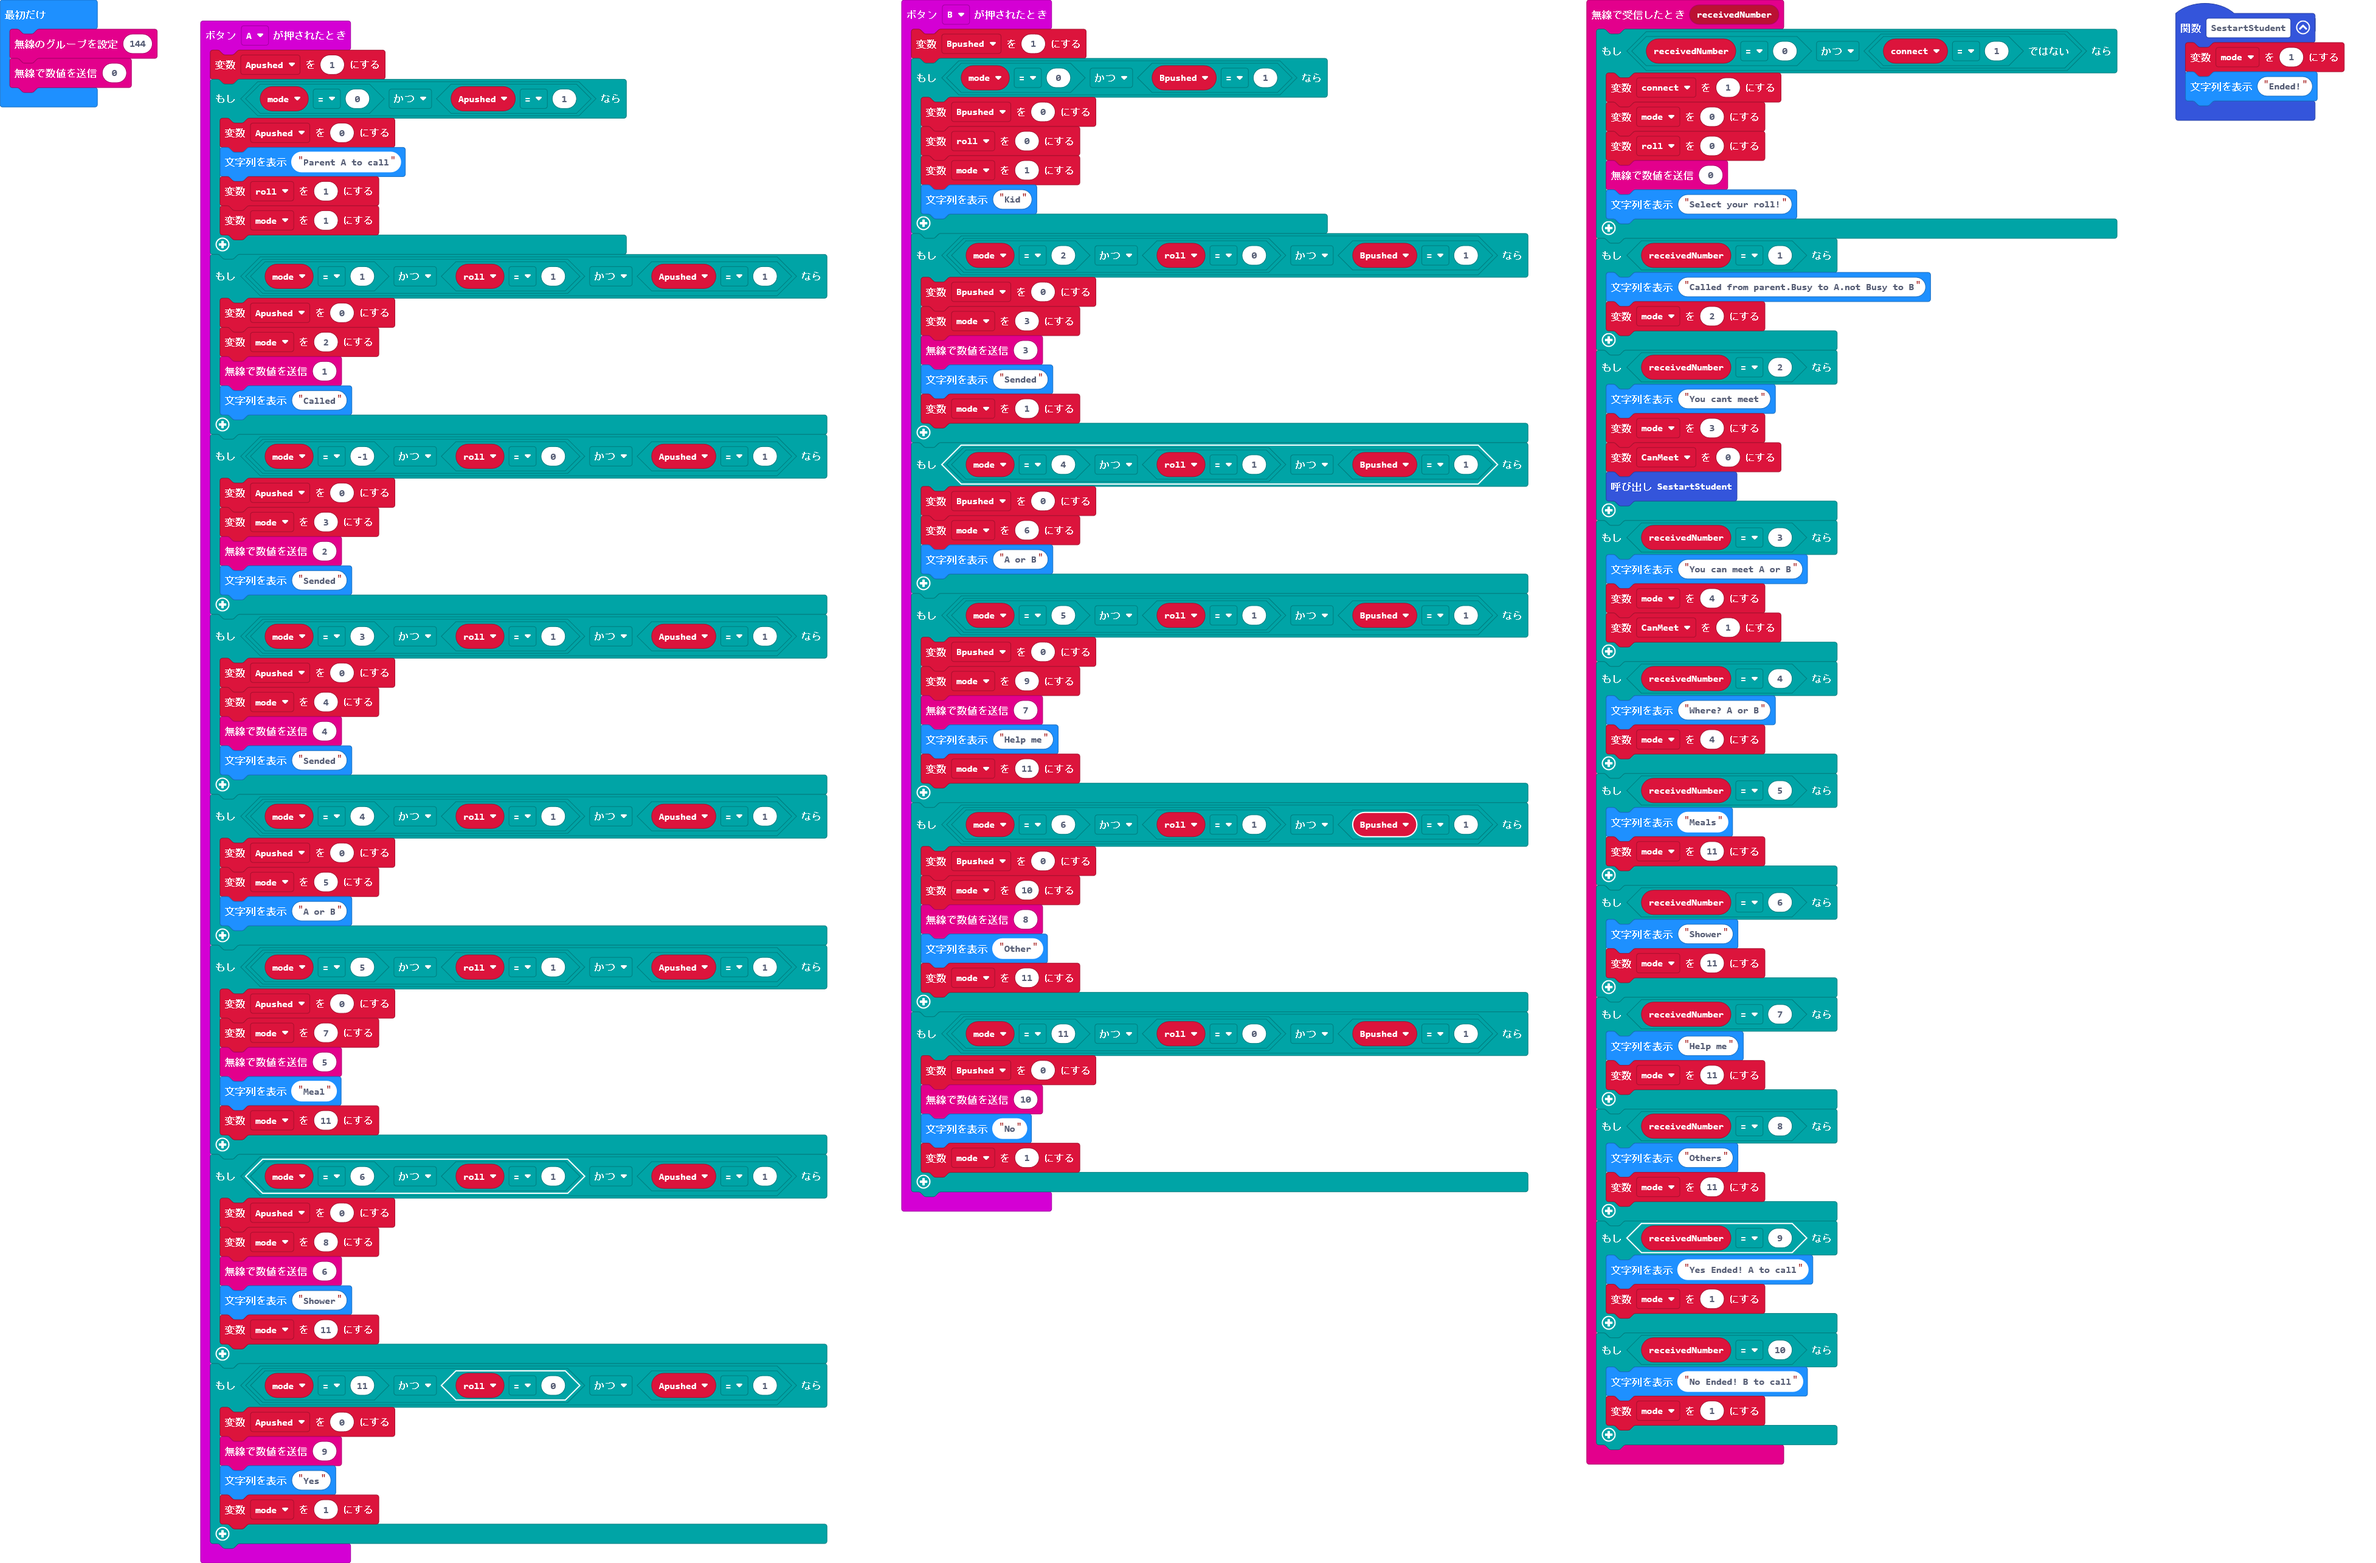
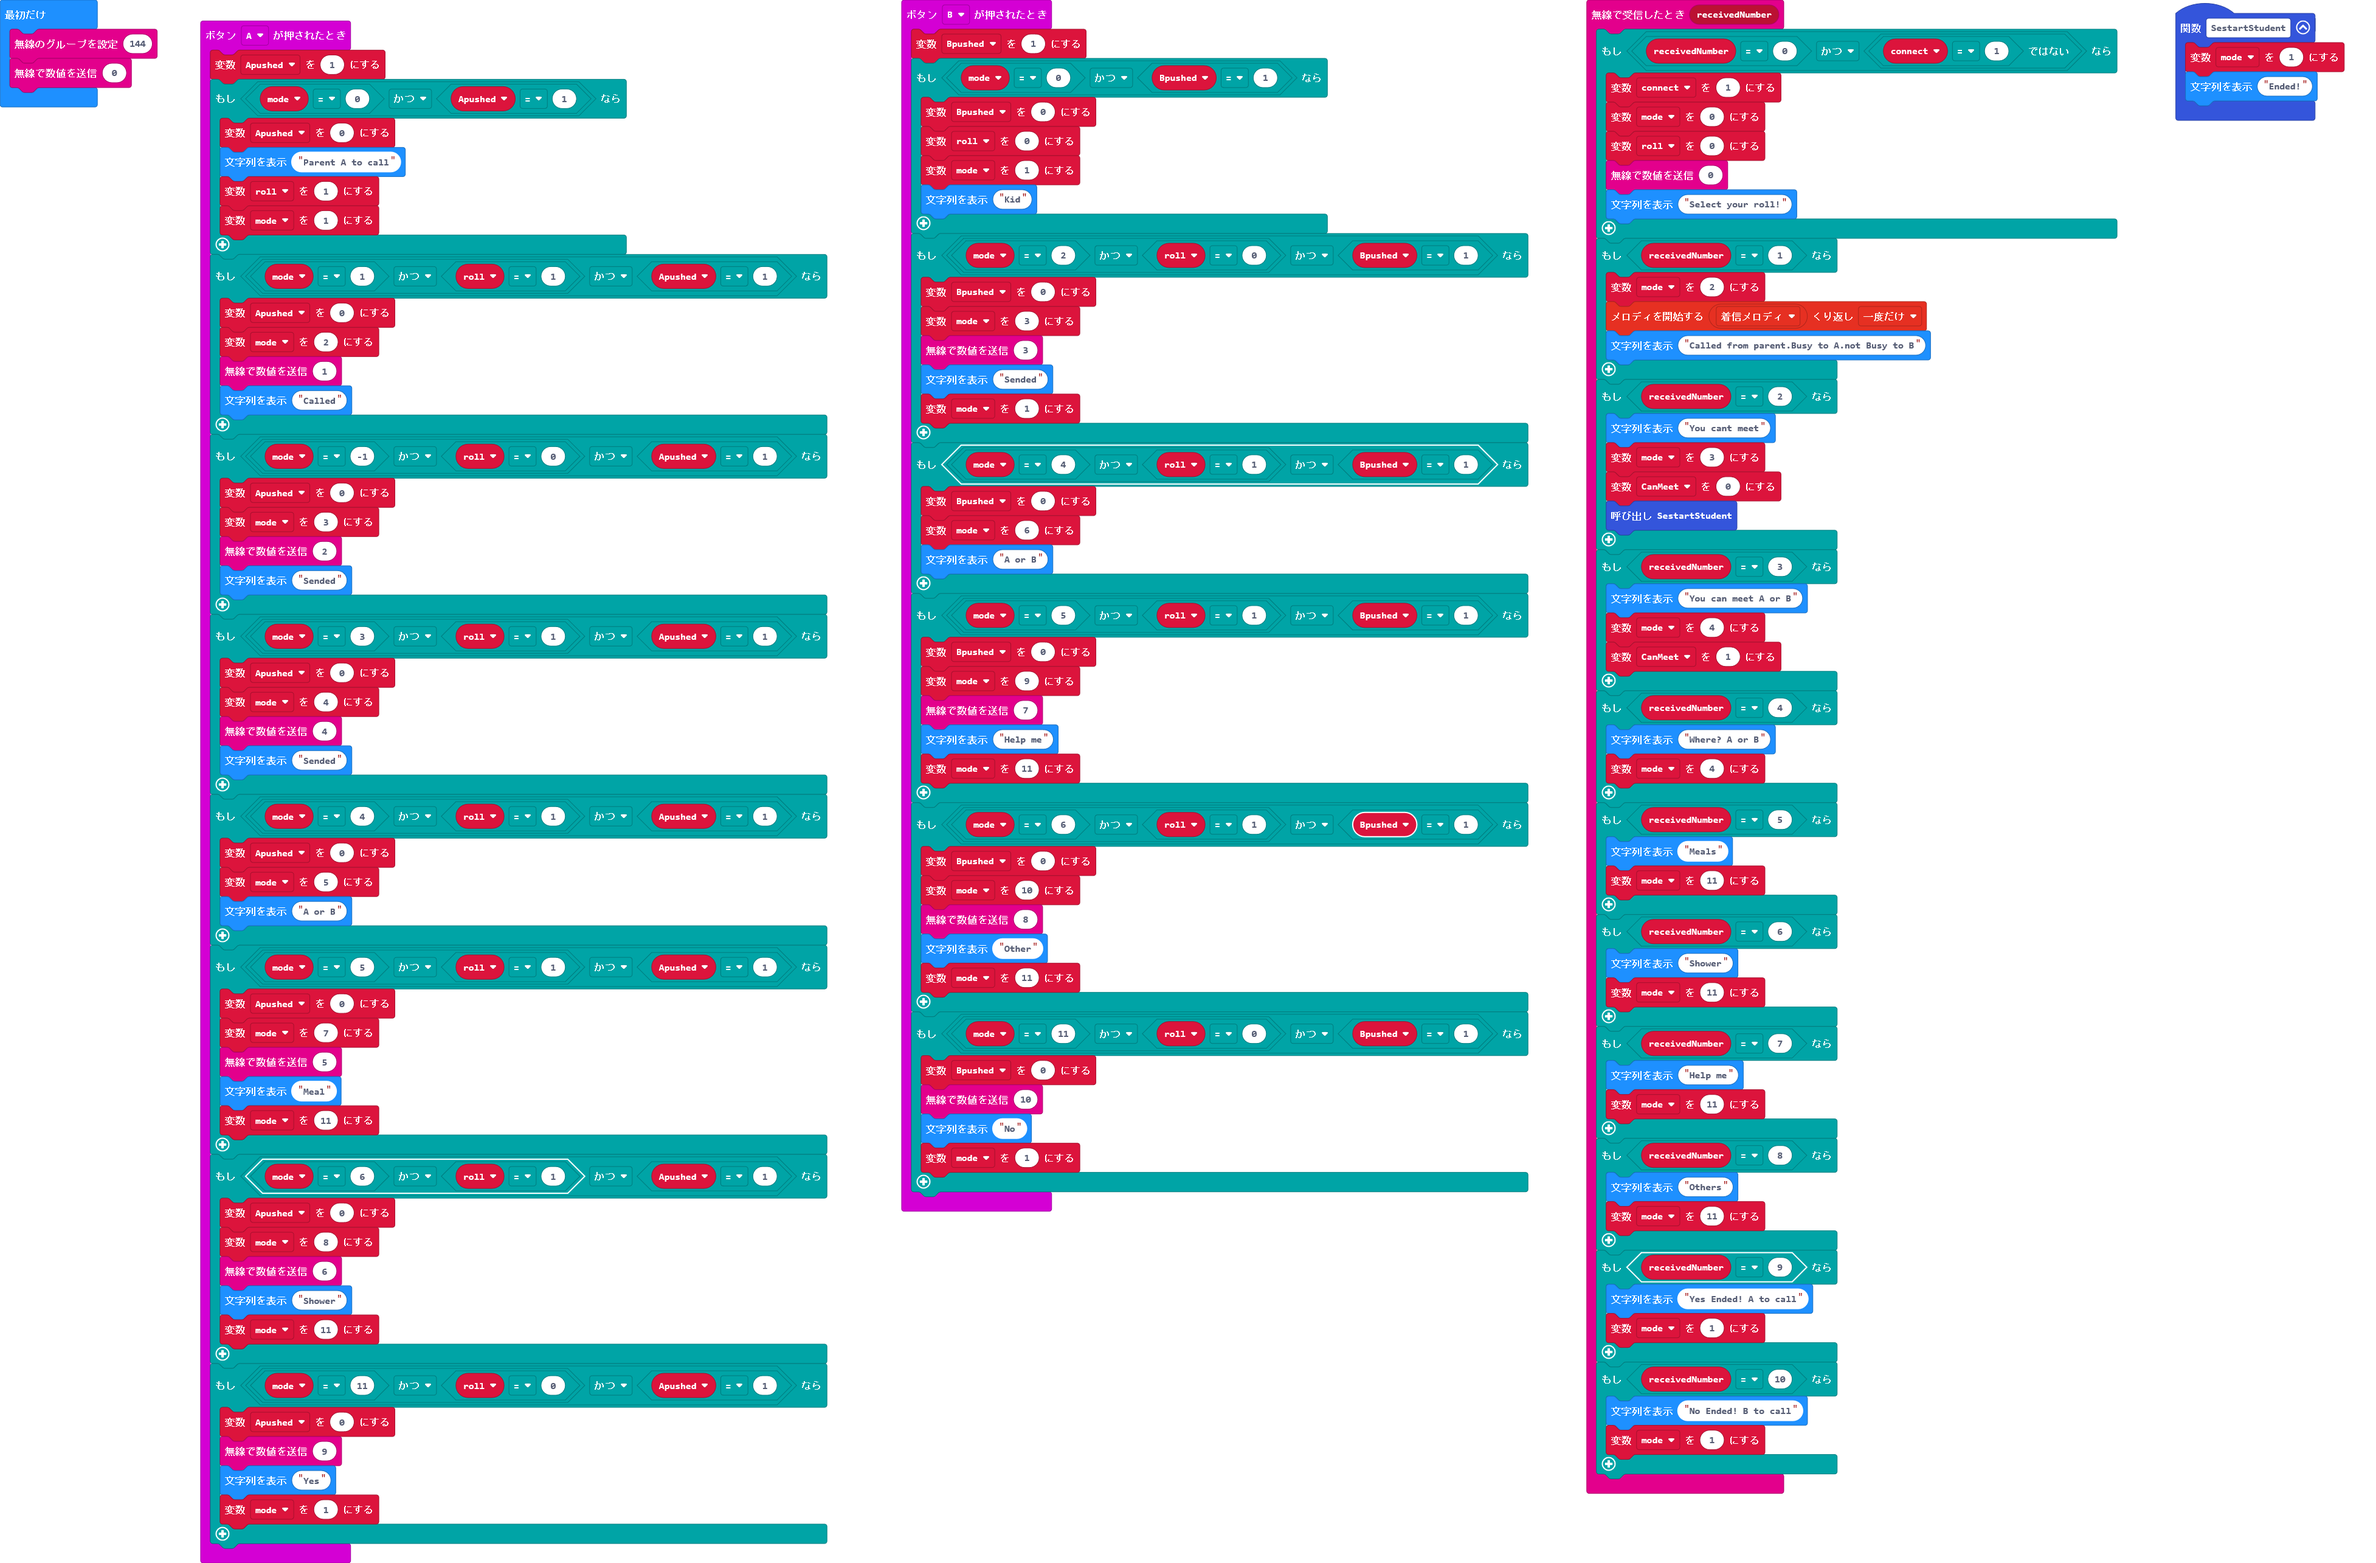
ararm

Changed region(s): [[0.6556, 0.1556, 0.8117, 0.965]]

diff --git a/main.ts b/main.ts
@@ -7,8 +7,9 @@ radio.onReceivedNumber(function (receivedNumber) {
         basic.showString("Select your roll!")
     }
     if (receivedNumber == 1) {
-        basic.showString("Called from parent.Busy to A.not Busy to B")
         mode = 2
+        music.startMelody(music.builtInMelody(Melodies.Ringtone), MelodyOptions.Once)
+        basic.showString("Called from parent.Busy to A.not Busy to B")
     }
     if (receivedNumber == 2) {
         basic.showString("You cant meet")
